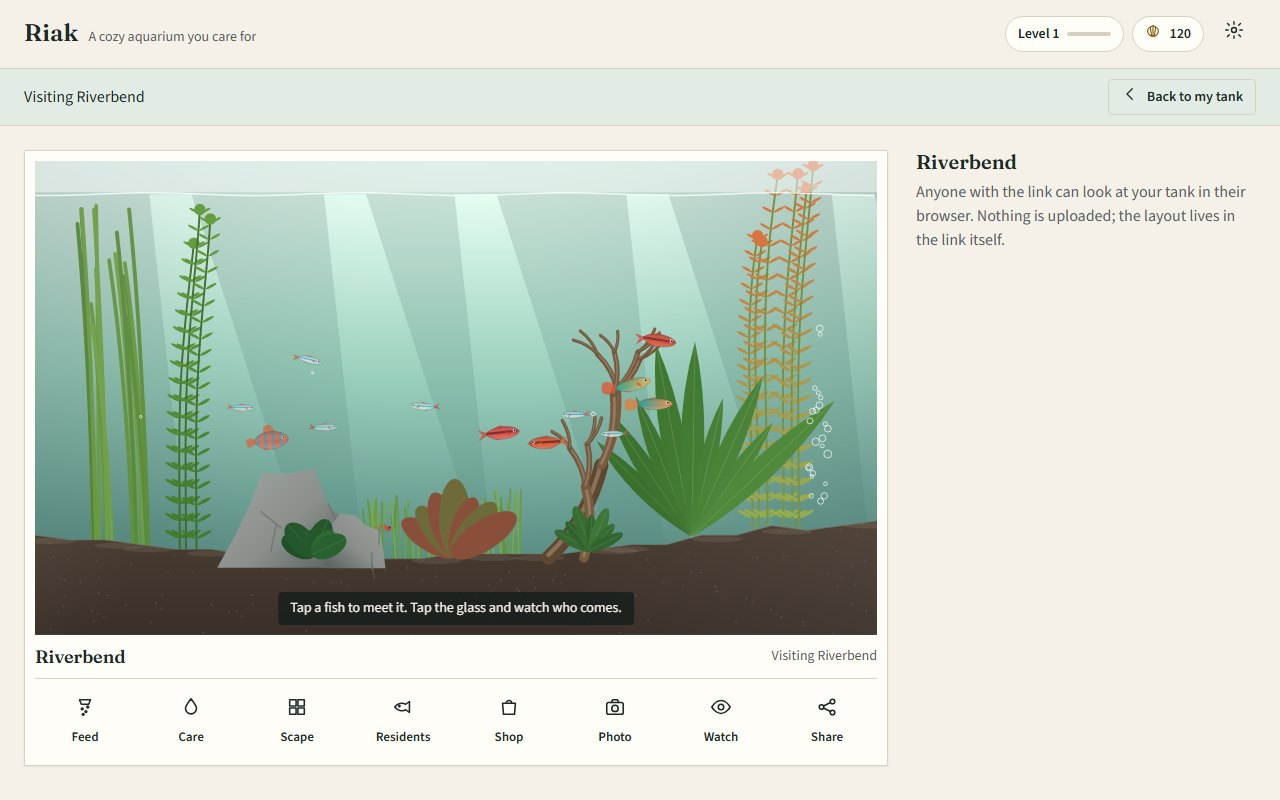
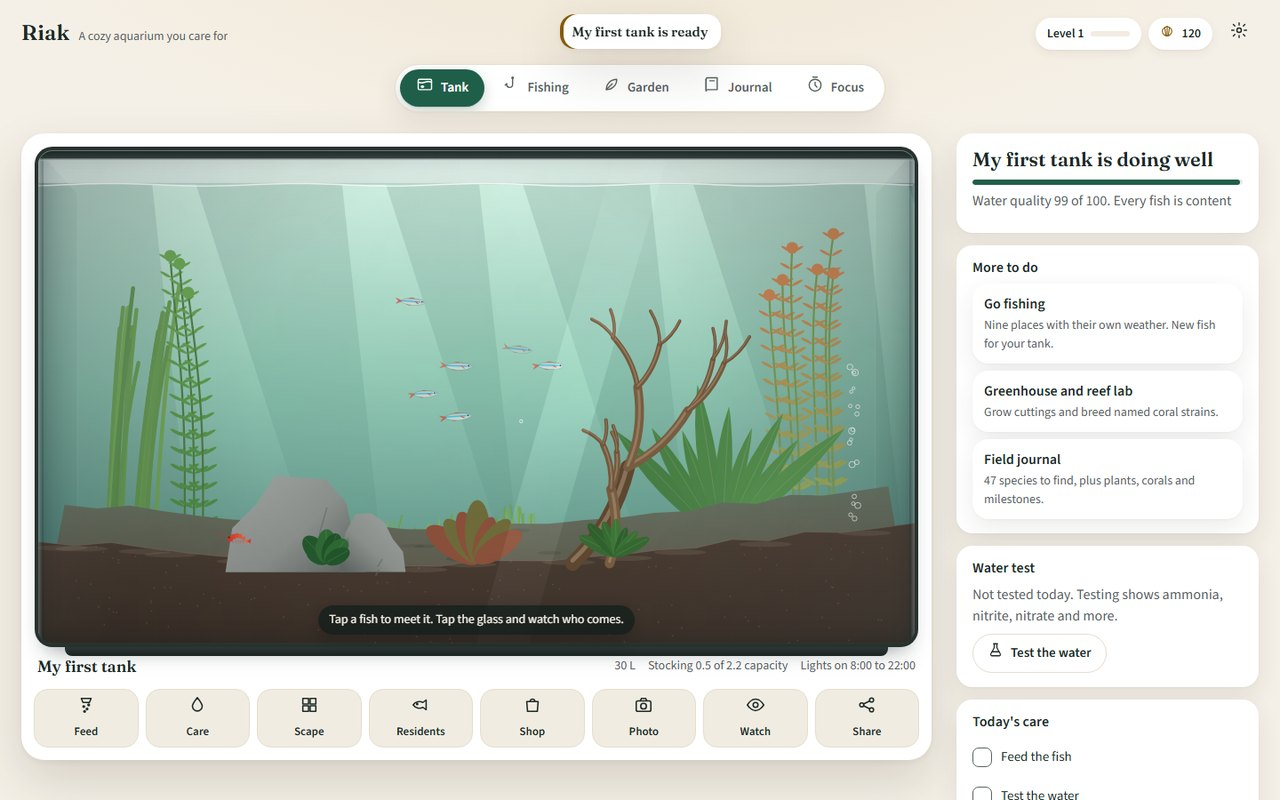
riak landing: v1.2.1 flick fishing, seed shelf, field journal, new screenshot

diff --git a/p/riak/index.html b/p/riak/index.html
@@ -594,7 +594,7 @@ html.dna.dna.dna { --fd: "Lora", var(--fd-fallback); --fdw: 700; --fd-fallback: 
     <div class="hero-copy">
       <span class="art" aria-hidden="true"><svg viewBox="0 0 200 200" role="presentation" focusable="false"><rect class="s o" x="20" y="160" width="160" height="12" rx="3"/><rect class="p o" x="28" y="48" width="144" height="112" rx="8"/><path class="ao" d="M30 72 Q65 64 100 72 T170 72" style="stroke-width:4"/><path class="s o" d="M30 142 Q100 128 170 142 V158 H30 Z"/><path class="ao" d="M52 142 Q44 114 56 90 M62 142 Q70 118 62 100 M152 142 Q158 122 150 108" style="stroke-width:4"/><path class="a o" d="M86 106 Q108 86 130 106 Q108 126 86 106 Z"/><path class="a o" d="M130 106 L148 94 L148 118 Z"/><circle class="p o" cx="100" cy="102" r="4"/><circle class="o" cx="140" cy="84" r="4"/><circle class="o" cx="148" cy="62" r="3"/></svg></span><span class="pill"><span class="dot"></span>Web app · PWA<span class="status">live</span></span>
       <h1>A <span class="hl">cozy aquarium<svg viewBox="0 0 200 20" preserveAspectRatio="none" aria-hidden="true"><path d="M2 14 C 40 4, 80 4, 110 11 S 170 18, 198 7" fill="none" stroke="currentColor" stroke-width="5" stroke-linecap="round"/></svg></span> that lives in your browser</h1>
-      <p class="sub">Look after a living tank a few minutes a day: real water care, fishing in nine places, plants, corals and a field journal. Free, offline, no account.</p>
+      <p class="sub">Look after a living glass tank a few minutes a day: real water care, flick-to-cast fishing in nine places, a greenhouse, corals and a field journal. Free, offline, no account.</p>
       <div class="cta"><a class="btn primary" href="https://juw12.github.io/riak/">▶ Try it live</a><a class="btn " href="https://github.com/juw12/riak#readme">Read the README</a><a class="btn " href="https://github.com/juw12/riak">View source</a></div>
       <div class="meta">Web app · PWA</div>
     </div>
@@ -616,12 +616,12 @@ html.dna.dna.dna { --fd: "Lora", var(--fd-fallback); --fdw: 700; --fd-fallback: 
   <section class="block alt wrap reveal" id="features">
     <div class="kicker">What's inside</div>
     <h2>Around your tank.</h2>
-    <div class="bento"><article class="cell wide dark"><h3>Real water care</h3><p>Fish waste becomes ammonia, then nitrite, then nitrate. Test kits, water changes and filters keep the cycle healthy.</p></article><article class="cell"><h3>Fishing in nine places</h3><p>Pond, rice paddy, stream, mangrove, blackwater, lagoon, glacier lake, open ocean and harbour, each with its own weather, day and night and catch list.</p></article><article class="cell"><h3>Breeding</h3><p>Happy adult pairs in a roomy tank have fry, and colours mix from both parents.</p></article><article class="cell accent"><h3>Aquascaping</h3><p>16 aquatic plants, 8 hardscape pieces, 3 substrates, 3 tank sizes, a second tank and a reef room for saltwater.</p></article><article class="cell"><h3>Greenhouse</h3><p>Grow plants from cuttings in trays, then harvest them for the tank or sell them as houseplants.</p></article><article class="cell"><h3>Reef lab</h3><p>Frag and cross corals. Each strain has a form, two colours and a pattern, and gets its own name.</p></article><article class="cell"><h3>Daily care and orders</h3><p>A short care list each day (feed, test, wipe) with a streak, plus daily orders that pay shells.</p></article><article class="cell wide"><h3>Field journal</h3><p>A fish dex with silhouettes until caught, best sizes, spots and hints, plus plants, coral strains and 18 milestones.</p></article></div>
+    <div class="bento"><article class="cell wide dark"><h3>Real water care</h3><p>Fish waste becomes ammonia, then nitrite, then nitrate. Test kits, water changes and filters keep the cycle healthy.</p></article><article class="cell"><h3>Flick fishing</h3><p>Flick up on the water to cast, flick again to strike, then crank the reel while you watch line tension against the fish&#x27;s strength. Set the drag, or use phone motion to cast.</p></article><article class="cell"><h3>Nine places, 47 species</h3><p>Pond, rice paddy, stream, mangrove, blackwater, lagoon, glacier lake, open ocean and harbour, each with its own weather, time of day and five rarities to find.</p></article><article class="cell accent"><h3>Tackle, tournaments, quests</h3><p>Five baits and five lures, tournaments against CPU anglers, 12 fishing quests and a catch album with trophy cards.</p></article><article class="cell"><h3>Scape and breed</h3><p>16 aquatic plants, 8 hardscape pieces, 3 substrates and 3 tank sizes. Happy adult pairs have fry, and colours mix from both parents.</p></article><article class="cell"><h3>Greenhouse and reef lab</h3><p>Sow from the seed shelf, water trays and harvest cuttings or houseplants, with rare variegated sports. Frag and cross corals into named strains.</p></article><article class="cell"><h3>Daily care and orders</h3><p>A short care list each day with a streak, plus daily fish, cutting and houseplant orders that pay shells.</p></article><article class="cell wide"><h3>Field journal</h3><p>A numbered field guide with Latin names for every species you find, silhouettes and hints for the rest, plus plants, coral strains and 18 milestones.</p></article></div>
   </section>
   <section class="block wrap reveal" id="how">
     <div class="kicker">How it works</div>
     <h2>Your first ten minutes</h2>
-    <ol class="steps n4"><li><span class="num">1</span><h3>Name your tank</h3><p>Open the app, pick a language and name your first tank.</p></li><li><span class="num">2</span><h3>Feed and test</h3><p>Feed the starter fish and run a water test to see the cycle.</p></li><li><span class="num">3</span><h3>Go fishing</h3><p>Fish the pond and bring a catch home to settle in.</p></li><li><span class="num">4</span><h3>Grow a cutting</h3><p>Plant a cutting in the greenhouse and come back when it roots.</p></li></ol>
+    <ol class="steps n4"><li><span class="num">1</span><h3>Name your tank</h3><p>Open the app, pick a language and name your first tank.</p></li><li><span class="num">2</span><h3>Feed and test</h3><p>Feed the starter fish and run a water test to see the cycle.</p></li><li><span class="num">3</span><h3>Flick to cast</h3><p>Fish the lily pond: flick up on the water to cast, strike when the float dips, then crank the catch in.</p></li><li><span class="num">4</span><h3>Plant a seedling</h3><p>Pick something from the seed shelf in the greenhouse and come back when it is ready to harvest.</p></li></ol>
   </section>
   <section class="block alt wrap reveal" id="run">
     <div class="quick">
@@ -645,10 +645,10 @@ html.dna.dna.dna { --fd: "Lora", var(--fd-fallback); --fdw: 700; --fd-fallback: 
   <section class="block alt wrap reveal" id="hood">
     <div class="kicker">Under the hood</div>
     <h2>How it's built.</h2>
-    <div class="hood solo"><div class="hood-card">
-        <h3>Built with</h3><div class="sg"><span>Language</span><div class="chips"><b class=chip>JavaScript</b><b class=chip>HTML/CSS</b></div></div><div class="sg"><span>Platform</span><div class="chips"><b class=chip>PWA</b><b class=chip>Offline service worker</b></div></div><div class="sg"><span>Testing</span><div class="chips"><b class=chip>Automated tests</b></div></div><div class="sg"><span>UI</span><div class="chips"><b class=chip>Multi-language UI</b></div></div><p class="repo-line">79 files in the repo · last updated 8 Nov 2026.</p>
+    <div class="hood"><div class="hood-card">
+        <h3>Built with</h3><div class="sg"><span>Language</span><div class="chips"><b class=chip>JavaScript</b><b class=chip>HTML/CSS</b></div></div><div class="sg"><span>Platform</span><div class="chips"><b class=chip>PWA</b><b class=chip>Offline service worker</b></div></div><div class="sg"><span>Testing</span><div class="chips"><b class=chip>Automated tests</b></div></div><div class="sg"><span>UI</span><div class="chips"><b class=chip>Multi-language UI</b></div></div><p class="repo-line">130 files in the repo · last updated 8 Nov 2026.</p>
         <a class="go" href="https://github.com/juw12/riak">Browse the code <svg viewBox="0 0 24 24" aria-hidden="true"><path d="M5 12h13M13 6l6 6-6 6" fill="none" stroke="currentColor" stroke-width="2.2" stroke-linecap="round" stroke-linejoin="round"/></svg></a>
-      </div></div>
+      </div><div class="hood-card"><h3>Recently shipped</h3><ol class="log"><li><time datetime="2026-11-08">8 Nov 2026</time><p>V1.2.1: hone pass - readable toggles, garden bench, field-guide journal</p></li><li><time datetime="2026-11-08">8 Nov 2026</time><p>Flick fishing: cast by swipe, crank reel, tension vs fish strength, tackle, tournaments, quests, album, challenge links</p></li><li><time datetime="2026-11-08">8 Nov 2026</time><p>Cozy aquarium PWA (tank care, fishing, greenhouse, reef lab, journal, focus)</p></li></ol><a class="go" href="https://github.com/juw12/riak/commits/main">Full history on GitHub <svg viewBox="0 0 24 24" aria-hidden="true"><path d="M5 12h13M13 6l6 6-6 6" fill="none" stroke="currentColor" stroke-width="2.2" stroke-linecap="round" stroke-linejoin="round"/></svg></a></div></div>
   </section>
   <section class="block wrap reveal" id="faq">
     <div class="kicker">Questions</div>
